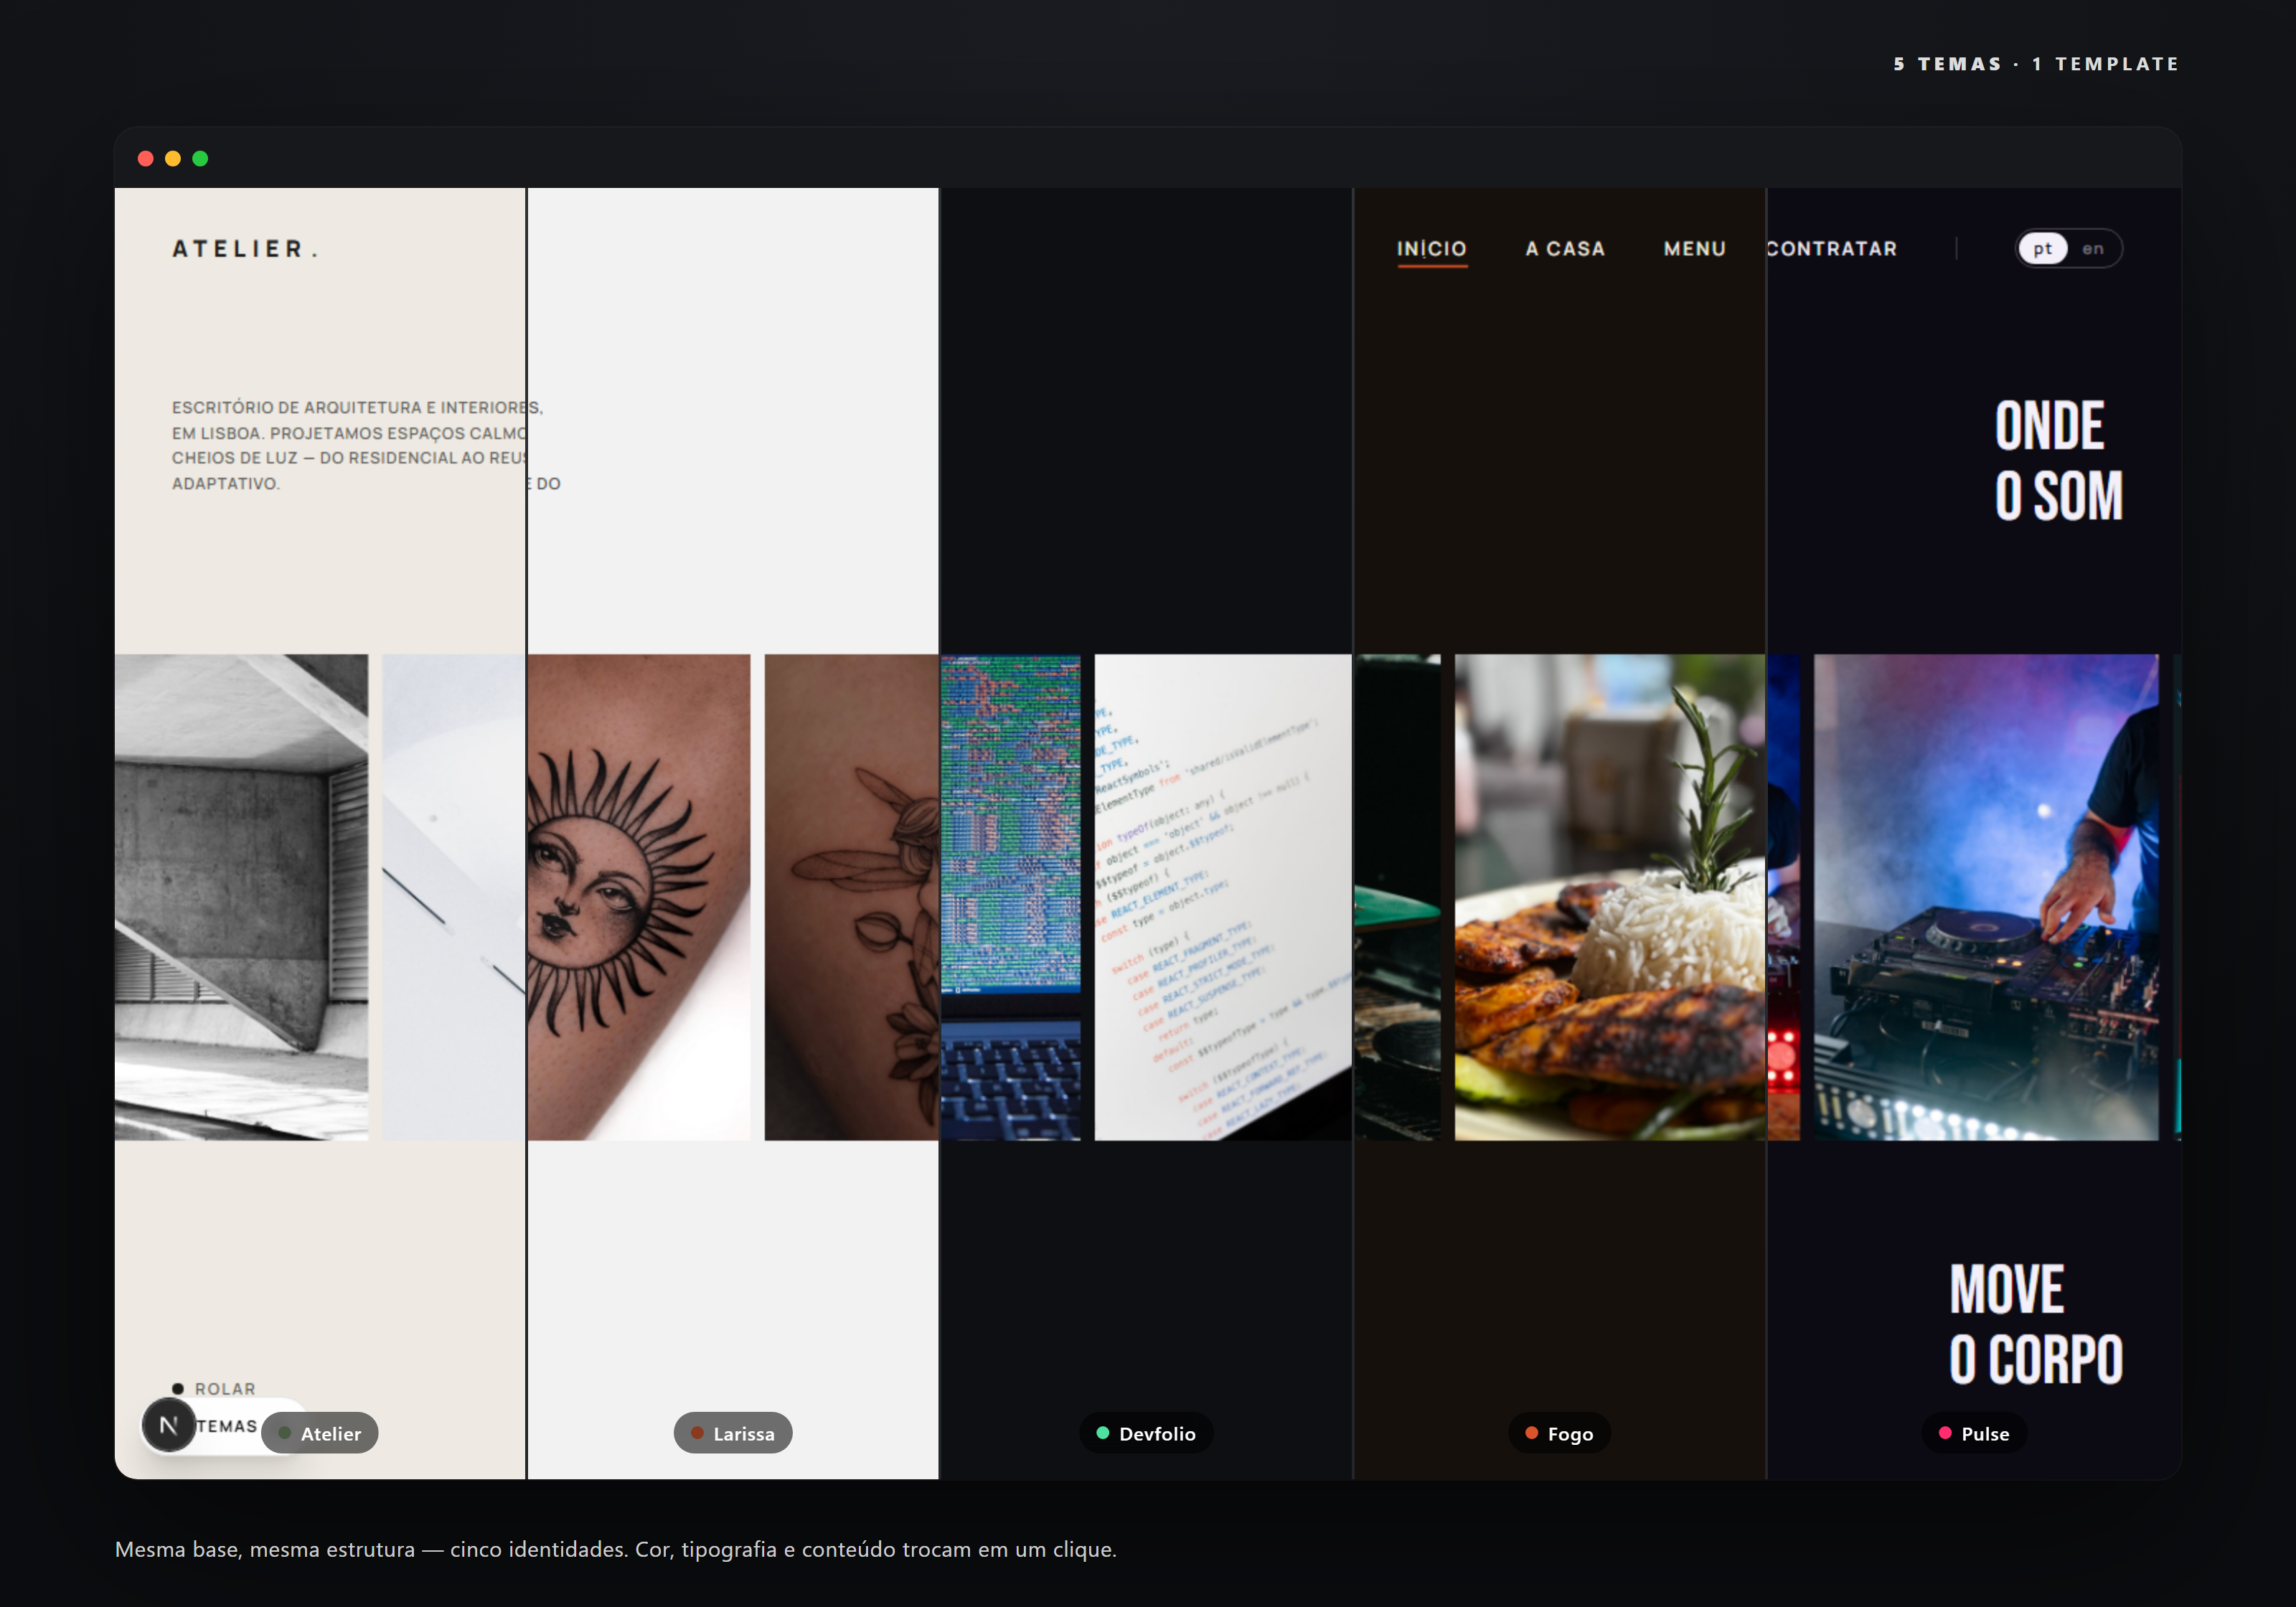
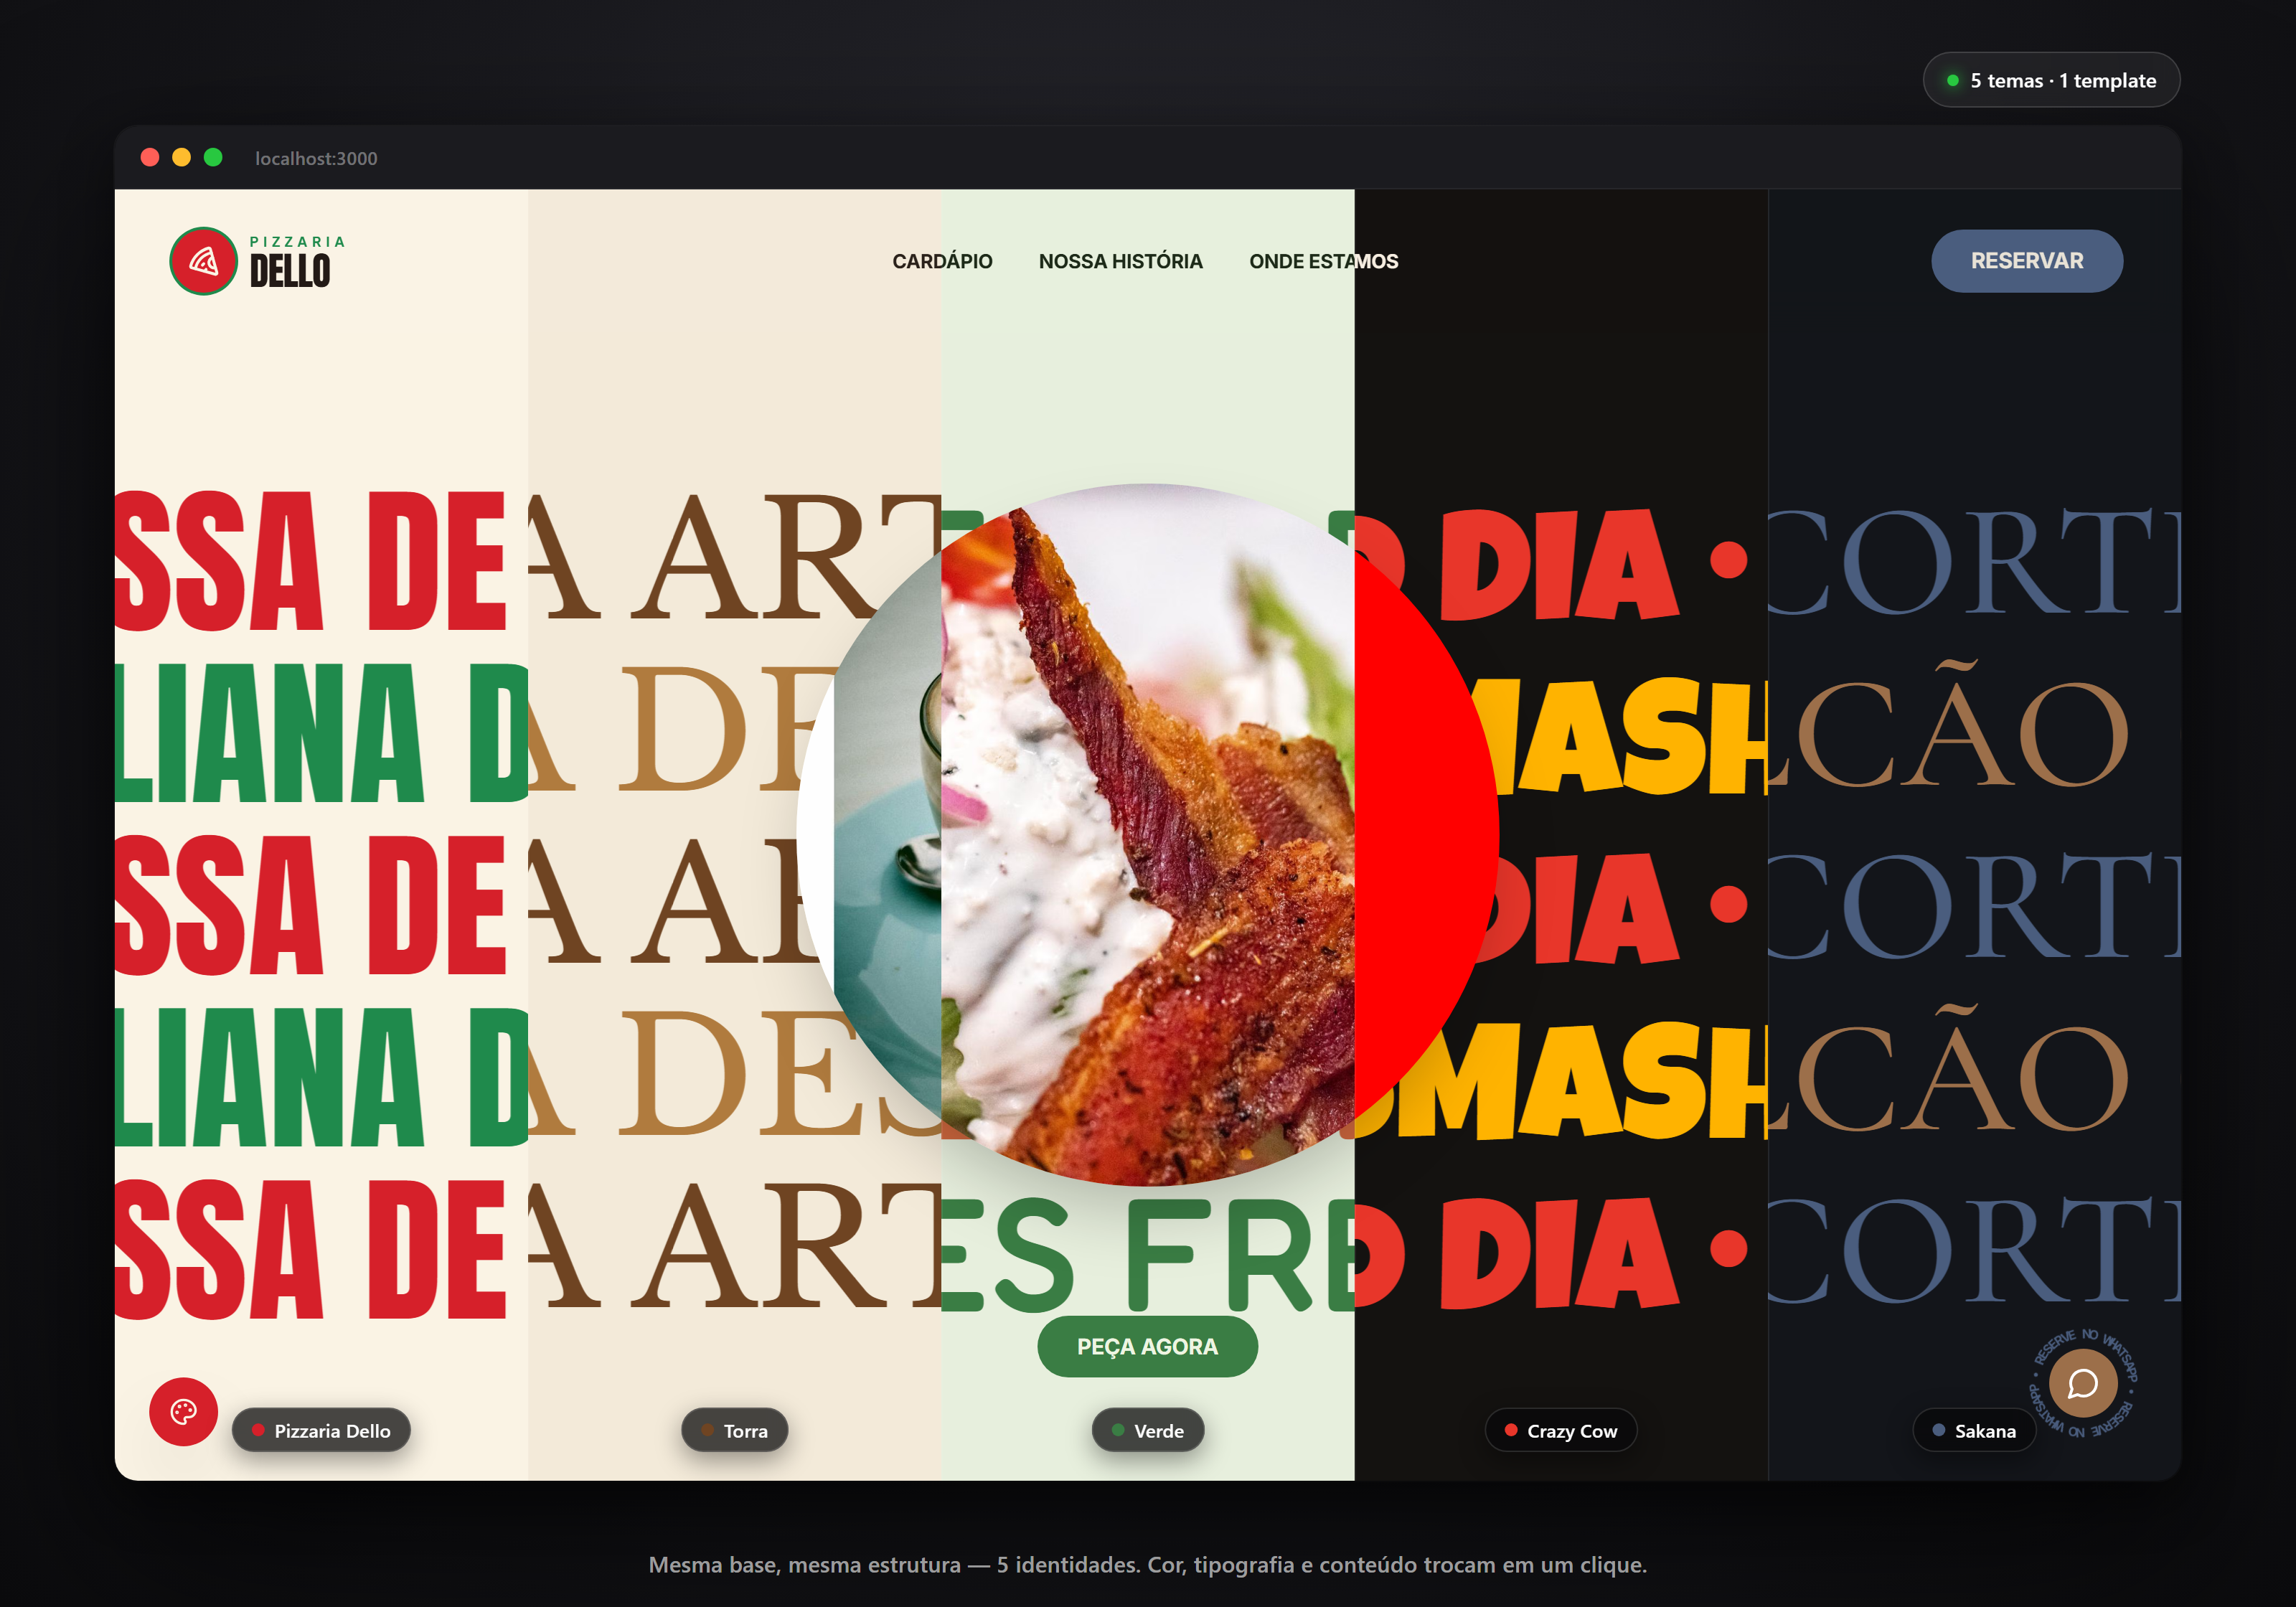
Adiciona template Cinco Temas, snap suave no scroll e remove bordinhas
- Novo card multitema "Cinco Temas" (gastronomico) e grid de templates em 3 colunas
- Tag "Template Cinco Temas" no card da Pizzaria Dello
- Imagens do Five Themes movidas para /images/fivethemes
- Snap suave de secao: GSAP no desktop, scroll-snap CSS no mobile
- Remove componente PrevEdge e faixas coloridas estaticas

diff --git a/app/page.tsx b/app/page.tsx
@@ -427,23 +427,6 @@ function ScrollNav() {
 }
 
 /* -------------------------------------------------------------------------- */
-/*  Bordinha da cor da página anterior                                        */
-/*  No desktop o efeito vem da rotação (a seção que entra revela a anterior    */
-/*  no topo). No mobile não há pin/rotação, então recriamos a "bordinha" com   */
-/*  uma faixa estática no topo — visível só abaixo de lg.                      */
-/* -------------------------------------------------------------------------- */
-
-function PrevEdge({ color }: { color: string }) {
-  return (
-    <div
-      className="pointer-events-none absolute inset-x-0 top-0 z-20 h-[clamp(6px,1vh,12px)] lg:hidden"
-      style={{ backgroundColor: color }}
-      aria-hidden
-    />
-  );
-}
-
-/* -------------------------------------------------------------------------- */
 /*  Cabeçalho de seção reutilizável                                           */
 /* -------------------------------------------------------------------------- */
 
@@ -489,8 +472,8 @@ const themeShowcases = [
     description:
       'A base de um estúdio criativo reimaginada em cinco universos. Um seletor troca cores, tipografia e clima — e o mesmo site vira outro negócio, sem trocar de página.',
     href: 'https://fivethemes.vercel.app/',
-    image: '/images/cincotemas/capa-5-temas.png',
-    video: '/images/cincotemas/switcher-demo.mp4',
+    image: '/images/fivethemes/capa-5-temas.png',
+    video: '/images/fivethemes/switcher-demo.mp4',
     themes: ['Fotografia', 'Chef', 'Arquitetura', 'DJ', 'Ateliê'],
   },
   // Segundo template multitema carro-chefe — mesmo molde do Five Themes.
@@ -504,6 +487,17 @@ const themeShowcases = [
     video: '/images/cinqthemes/switcher-demo.mp4',
     themes: ['Preto', 'Terra', 'Azul', 'Noir', 'Pulse'],
   },
+  // Terceiro template multitema carro-chefe — versão gastronômica do mesmo molde.
+  {
+    title: 'Cinco Temas',
+    tagline: 'Um template · cinco identidades',
+    description:
+      'Um restaurante reimaginado em cinco casas — da pizzaria de forno a lenha ao sushi. Um seletor troca cores, tipografia e clima e o mesmo site vira outro negócio, sem trocar de página.',
+    href: 'https://cincotemas.vercel.app/',
+    image: '/images/cincotemas/capa-5-temas.png',
+    video: '/images/cincotemas/switcher-demo.mp4',
+    themes: ['Pizzaria Dello', 'Toma', 'Verde', 'Crazy Cow', 'Sakana'],
+  },
 ];
 
 const commercialProjects = [
@@ -515,7 +509,7 @@ const commercialProjects = [
 ];
 
 const gastronomyProjects = [
-  { title: 'Pizzaria Dello', subtitle: 'Pizzaria · Forno a lenha', href: 'https://pizzariadello.vercel.app/', image: '/images/pizzariadello.png' },
+  { title: 'Pizzaria Dello', subtitle: 'Pizzaria · Forno a lenha', href: 'https://pizzariadello.vercel.app/', image: '/images/pizzariadello.png', templateTag: 'Template Cinco Temas' },
   { title: 'Altura', subtitle: 'Cafeteria · Torrefação', href: 'https://alturacafes.vercel.app/', image: '/images/altura.png' },
   // Oculto temporariamente a pedido — reativar quando quiser exibir de novo.
   // { title: 'Crazy Cow', subtitle: 'Lanchonete · Burgers', href: 'https://crazycow.vercel.app/', image: '/images/crazycow.png' },
@@ -583,15 +577,6 @@ export default function Home() {
 
         {/* Seção 01 — Hero (Preto) */}
         <FlowSection aria-label="Apresentação" style={{ backgroundColor: '#000000', color: '#fff' }}>
-          {/* Faixa colorida no topo do Hero. Em cada virada de página, a seção  */}
-          {/* que gira por cima revela uma faixa da cor da seção anterior no     */}
-          {/* topo. Como o Hero é preto (= fundo da página), essa faixa some na  */}
-          {/* primeira transição; esta barra garante a mesma "bordinha" colorida */}
-          {/* ao entrar na Multitema (cor ajustável). */}
-          <div
-            className="pointer-events-none absolute inset-x-0 top-0 z-20 h-[clamp(6px,1vh,12px)] bg-[#1C3A5E]"
-            aria-hidden
-          />
           <div className="flex items-center justify-between font-mono text-[0.7rem] uppercase tracking-[0.25em] text-white/60">
             <span>Leonardo Luciano</span>
             <span className="hidden sm:inline">Portfólio Digital</span>
@@ -646,14 +631,13 @@ export default function Home() {
 
         {/* Seção 02 — Templates Multitema (Azul — camisa) */}
         <FlowSection aria-label="Templates Multitema" style={{ backgroundColor: '#1C3A5E', color: '#fff' }}>
-          <PrevEdge color="#1C3A5E" />
           <SectionHead
             label="Um molde · Várias identidades"
             kicker="Camaleão"
             title="Templates Multitema"
             description="Um único template que veste vários negócios: um seletor troca cores, tipografia e clima e o mesmo site vira outro. Passe o mouse e veja a troca de temas acontecer ao vivo."
           />
-          <div className="mt-[clamp(2rem,4vw,3rem)] grid grid-cols-1 gap-[clamp(1.5rem,2.5vw,2rem)] lg:grid-cols-2">
+          <div className="mt-[clamp(2rem,4vw,3rem)] grid grid-cols-1 gap-[clamp(1.5rem,2.5vw,2rem)] lg:grid-cols-3">
             {themeShowcases.map((p, i) => (
               <ThemeShowcaseCard key={i} {...p} accent="#2E5C92" />
             ))}
@@ -662,7 +646,6 @@ export default function Home() {
 
         {/* Seção 03 — Soluções Comerciais (Verde — encostas) */}
         <FlowSection aria-label="Soluções Comerciais" style={{ backgroundColor: '#273A22', color: '#fff' }}>
-          <PrevEdge color="#1C3A5E" />
           <SectionHead
             label="Negócios & Landing Pages"
             kicker="Comercial"
@@ -678,7 +661,6 @@ export default function Home() {
 
         {/* Seção 04 — Gastronomia (Marrom — ruínas/terra) */}
         <FlowSection aria-label="Gastronomia" style={{ backgroundColor: '#3A271B', color: '#fff' }}>
-          <PrevEdge color="#273A22" />
           <SectionHead
             label="Gastronomia & Cafés"
             kicker="Sabor"
@@ -694,7 +676,6 @@ export default function Home() {
 
         {/* Seção 05 — Portfólios e Estúdios (Azul — camisa) */}
         <FlowSection aria-label="Portfólios e Estúdios" style={{ backgroundColor: '#1C3A5E', color: '#fff' }}>
-          <PrevEdge color="#3A271B" />
           <SectionHead
             label="Estúdios Criativos"
             kicker="Visual"
@@ -710,7 +691,6 @@ export default function Home() {
 
         {/* Seção 06 — Gaming Projects — oculta temporariamente a pedido (reativar quando quiser exibir de novo)
         <FlowSection aria-label="Gaming Projects" style={{ backgroundColor: '#273A22', color: '#fff' }}>
-          <PrevEdge color="#1C3A5E" />
           <SectionHead
             label="Gaming & Comunidade"
             kicker="Paixões"
@@ -729,7 +709,6 @@ export default function Home() {
 
         {/* Seção 07 — Contato (Preto) */}
         <FlowSection aria-label="Contato" style={{ backgroundColor: '#000000', color: '#fff' }}>
-          <PrevEdge color="#1C3A5E" />
           <div className="flex items-center justify-between font-mono text-[0.7rem] uppercase tracking-[0.25em] text-white/60">
             <span>Contato</span>
             <span className="hidden sm:inline">Vamos conversar</span>

diff --git a/components/ui/story-scroll.tsx b/components/ui/story-scroll.tsx
@@ -127,6 +127,31 @@ const FlowArt: React.FC<FlowArtProps> = ({
         }
       });
 
+      // Snap suave: ao parar de rolar (mouse/trackpad), o scroll é puxado para a
+      // seção mais próxima e encaixa o início dela no topo da tela. Como cada
+      // seção ocupa exatamente uma viewport, basta arredondar para o múltiplo de
+      // innerHeight mais próximo. Dispara só no fim da rolagem (delay), então não
+      // briga com a rotação — e nunca deixa uma virada parada no meio do caminho.
+      triggers.push(
+        ScrollTrigger.create({
+          trigger: containerRef.current,
+          start: 'top top',
+          end: () => ScrollTrigger.maxScroll(window),
+          snap: {
+            snapTo: (value, self) => {
+              const range = self ? self.end - self.start : 0;
+              if (range <= 0) return value;
+              const vh = window.innerHeight;
+              const snapped = Math.round((value * range) / vh) * vh;
+              return Math.min(1, Math.max(0, snapped / range));
+            },
+            duration: { min: 0.15, max: 0.4 },
+            delay: 0.06,
+            ease: 'power1.inOut',
+          },
+        }),
+      );
+
       ScrollTrigger.refresh();
 
       return () => {

diff --git a/app/globals.css b/app/globals.css
@@ -19,6 +19,22 @@ html {
   scroll-behavior: smooth;
 }
 
+/* Snap suave no mobile/touch (abaixo de lg, onde não há pin do GSAP): ao rolar
+   ou passar o dedo, a rolagem é puxada de leve para o início da seção mais
+   próxima, deixando-o grudado no topo da tela. "proximity" (não "mandatory")
+   mantém o snap leve — só encaixa quando você já está perto. Respeita quem
+   prefere menos movimento. No desktop o encaixe é feito pelo GSAP. */
+@media (max-width: 1023px) and (prefers-reduced-motion: no-preference) {
+  html {
+    scroll-snap-type: y proximity;
+  }
+
+  [data-flow-section] {
+    scroll-snap-align: start;
+    scroll-snap-stop: always;
+  }
+}
+
 body {
   font-family: var(--font-sans);
   background-color: #000;